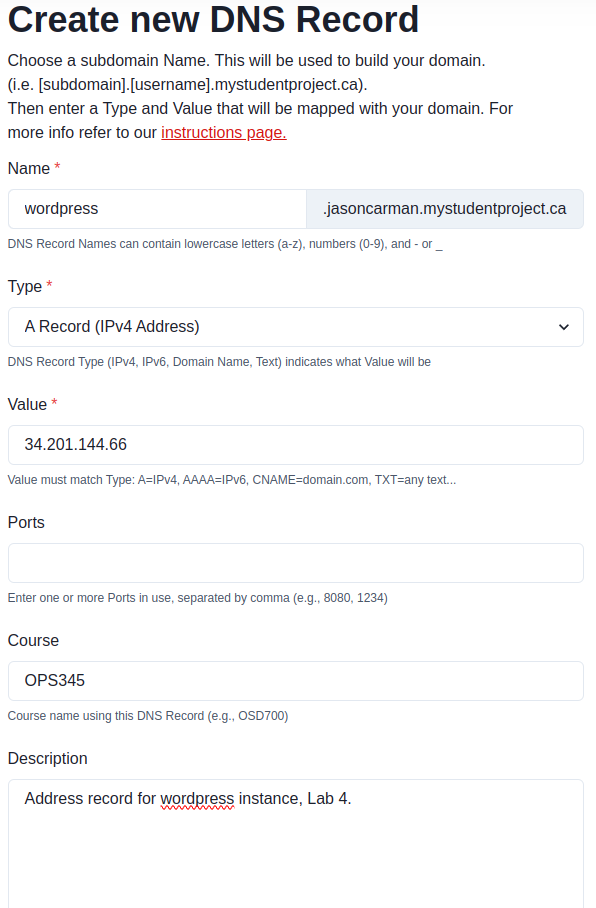
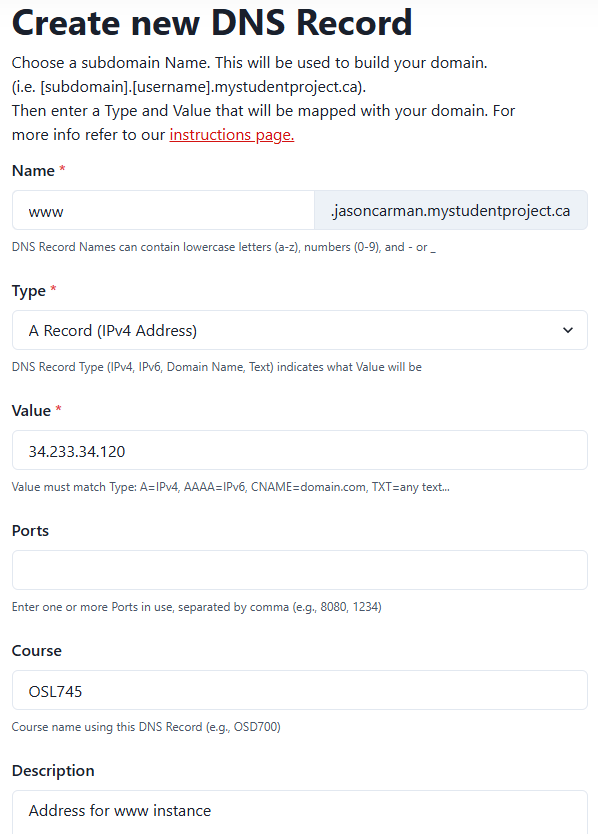
Lab 8: Initial updates.

diff --git a/docs/Labs/lab8.md b/docs/Labs/lab8.md
@@ -16,11 +16,11 @@ This week's lab will cover the following:
 
 ## Registering a domain name
 
-You should have received an email indicating you have access to [My.Custom.Domain](https://mycustomdomain.senecacollege.ca/). You will be using this to create an A record and map it to the elastic IP of your instance from Lab 3. If you do not have access please **contact your professor** so you can proceed.
+You should have received an email indicating you have access to [My.Custom.Domain](https://mycustomdomain.senecapolytechnic.ca/). You will be using this to create an A record and map it to the elastic IP of your instance from Lab 7. If you do not have access please **contact your professor** so you can proceed.
 
 ### Creating an A record
 
-Login to [My.Custom.Domain](https://mycustomdomain.senecacollege.ca/). You should see a screen similar to the one below.
+Login to [My.Custom.Domain](https://mycustomdomain.senecapolytechnic.ca/). You should see a screen similar to the one below.
 
 ![My.Custom.Domain login](/img/my-custom-domain-login.png)
 
@@ -28,11 +28,11 @@ Click **Create DNS Records**.
 
 On the following screen, click **Create your first DNS Record!**, and fill in the following information (see the following screenshot for an example)
 
-- **Name:** wordpress
+- **Name:** www
 - **Type:** A Record (IPv4 Address)
 - **Value:** _your elastic IP_
-- **Course:** OPS345
-- **Description:** Address record for wordpress instance, lab 4.
+- **Course:** OSL745
+- **Description:** Address record for www instance.
 
 Click **Create**.
 
@@ -41,21 +41,29 @@ Click **Create**.
 ### Testing Your DNS configuration
 
 1. Launch the AWS Learner Lab and login. Make sure your www instance is running.
-2. Type **www.example.com** (replace this with your domain name) in the URL bar of a web browser. This could be on your PC, or any device. You should see your website from Lab 3! If you don't, double check and make sure you see **http://** and not **https://**.
-
-Next, login to your first instance and issue the following commands. Note the output of each. Substitute your domain name for www.example.com.
+1. Next, login to your first instance and issue the following commands. Note the output of each. **Substitute your username in the provided commands**.
 
 ```bash
-nslookup www.example.com
+nslookup www.yourusername.mystudentproject.ca
 ```
 
 and
 
 ```bash
-dig www.example.com
+dig www.yourusername.mystudentproject.ca
 ```
 
+3. Access dig via the [https://toolbox.googleapps.com/apps/dig/#A/](Google Admin ToolBox) and enter the value **www.yourusername.mystudentproject.ca** into the Name field (make sure the record type is set to **A**). You should see output similar to the following:
+
+![Google Admin ToolBox](/img/google-admin-toolbox.png)
+
+4. Provided all of the above displayed the correct output, open a web browser and type **www.yourusername.mystudentproject.ca** (replace your username) in the URL bar of a web browser. This could be on your PC, or any device. You should see your website from Lab 7! If you don't, double check and make sure you see **http://** and not **https://**.
+
 Make sure you see the correct output from the previous commands indicating your DNS is working before proceeding to the next step.
+
+> Note: You can now login via SSH (from the command line) using your FQDN! 
+>
+> Use the command **ssh ubuntu@www.username.mystudentproject.ca**
 
 ## Preparing your system to generate and install an SSL certificate
 
@@ -81,16 +89,16 @@ sudo apt -y install certbot python3-certbot-apache
 
 ### Configuring an Apache Virtual Host
 
-Create the and edit a file for your virtual host configuration. You can use either vi or nano. Replace wwwexamplecom with your domain name, with the www and top level domain, but without the .. This will allow Certbot to find the correct VirtualHost block and update it.
+Create the and edit a file for your virtual host configuration. You can use either vi or nano. Replace wwwusernamemystudentprojectca with your domain name, with the www and top level domain, but without the **dots(.)**. This will allow Certbot to find the correct VirtualHost block and update it.
 
 ```bash
-sudo vi /etc/apache2/sites-available/wwwexamplecom.conf
+sudo nano /etc/apache2/sites-available/wwwusernamemystudentprojectca.conf
 ```
 
-Enter the following text (again, replacing the domain name with yours).
+Enter the following text (again, replacing the username with yours).
 
 ```bash
-ServerName www.example.com
+ServerName www.jasoncarman.mystudentproject.ca
 ```
 
 ### Testing and Reloading the Apache configuration
@@ -119,20 +127,24 @@ Now you are ready to generate your SSL certificate using Certbot. You are going 
 sudo certbot --apache
 ```
 
-At the email address prompt, enter your Seneca College issued email.
+At the email address prompt, enter your Seneca Polytechnic issued email.
 ![Running certbot](/img/sudocertbotapache.png)
 
 Accept the terms of service. Answer as you wish for sharing your email, then enter your domain name. See the following example.
 ![Generating your certificate](/img/certbotregister.png)
 
-Update your security group rules to allow incoming HTTPS traffic from the anywhere IP: 0.0.0.0/0
+Update your **Wordpress Website SG** security group rules to allow incoming HTTPS traffic from the anywhere IP: 0.0.0.0/0
 
 ## Testing your configuration
 
-Open a web browser try to access your lab website using HTTPS. It should work!
+Open a web browser try to access your Apache test page using HTTPS. It should work!
 
-## Completing the lab
+## Lab 8 Sign-Off (Show Instructor)
 
-Take a screenshot of accessing your Apache server through a web browser using https. Submit them to the the folder on blackboard for proof of completion OR show your professor. The following Exploration Questions are for furthering your knowledge only, and may appear on quizzes or tests at any time later in this course.
+Show your professor the following:
+
+- Your Elastic IP
+- Accessing your Apache2 Ubuntu Default Page through a web browser using **https**
 
 ## Exploration Questions
+1. What port did you have to allow inbound in the **Wordpress Website SG** security group?
